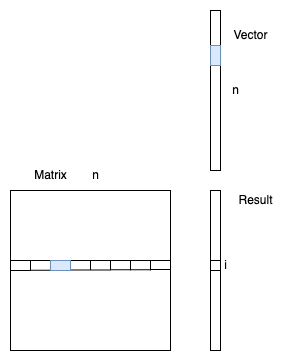
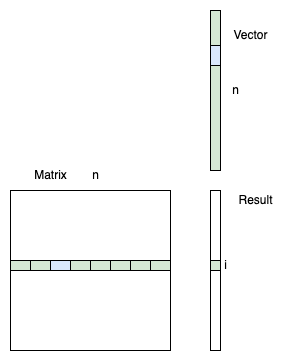
add layout

diff --git a/method_and_result.md b/method_and_result.md
@@ -73,7 +73,7 @@ struct half4 { half x, y, z, w; };
 struct int8_2 { int8_t x, y; };
 ```
 
-When the vector is in fp16 and the matrix is in `int4`, based on the experiments from the previous cases, we found that it would be more efficient if each thread handles 16 or more numbers (i.e., `size / p` >= 16). Therefore, we tried to fetch 16 consecutive numbers from both the vector and the matrix at a time, at `float4` and `uint4_2_4` objects respectively: 
+When the vector is in fp16 and the matrix is in `int4`, based on the experiments from the previous cases, we found that it would be more efficient if each thread handles 16 numbers than 8 numbers. Therefore, we tried to fetch 16 consecutive numbers from both the vector and the matrix at a time, at `float4` and `uint4_2_4` objects respectively: 
 
 ![5](./pics/5.png)
 
@@ -95,17 +95,27 @@ struct uint4_2 {
 struct uint4_2_4 { uint4_2 x, y, z, w; };
 ```
 
-Note that the size of `uint4_2` is exactly 1 byte for 2 4-bit integers, it has higher memory efficiency than the [uint4b_t](https://github.com/NVIDIA/cutlass/blob/9b8166e3f0ea785300af85449210d01952a4107e/include/cutlass/integer_subbyte.h#L52) defined by CUTLASS.
+The size of `uint4_2` is exactly 1 byte for 2 4-bit integers. It has higher memory efficiency than the [uint4b_t](https://github.com/NVIDIA/cutlass/blob/9b8166e3f0ea785300af85449210d01952a4107e/include/cutlass/integer_subbyte.h#L52) defined by CUTLASS.
 
 There is still more to explore in the vectorization side. For example, the first version of this project was implemented on P100, and we can try loading even more bytes at a time on newer machines. 
 
 ### GPU thread layout
 
+We decided to have `m * p` threads per block, in each row `i`, `p` threads computes the dot product of `matrix[i]` and the vector. In this way, each block will compute `m` elements in the result vector. 
+
+![6](./pics/6.png)
+
+The grid layout, therefore, would be `(n / m, 1)`, where `n` is the side length of the matrix. 
+
+We also tried to have multiple `y` blocks per row to compute an intermediate result matrix (`n * y`) and then reduce the numbers in the intermediate result in each row to obtain the result vector using another kernel, shown as below: 
+
+![7](./pics/7.png)
+
+Using two kernels here can reduce the synchronization time between blocks and increase the utilization of the GPU resource in the reduction stage. However, this strategy yields close but slightly higher runtime comparing to the previous single-block-per-row solution.
+
 ### Other attempted methods
 
 #### Shared memory
-
-#### 2 kernels
 
 #### Hash table (quantized int8)
 
